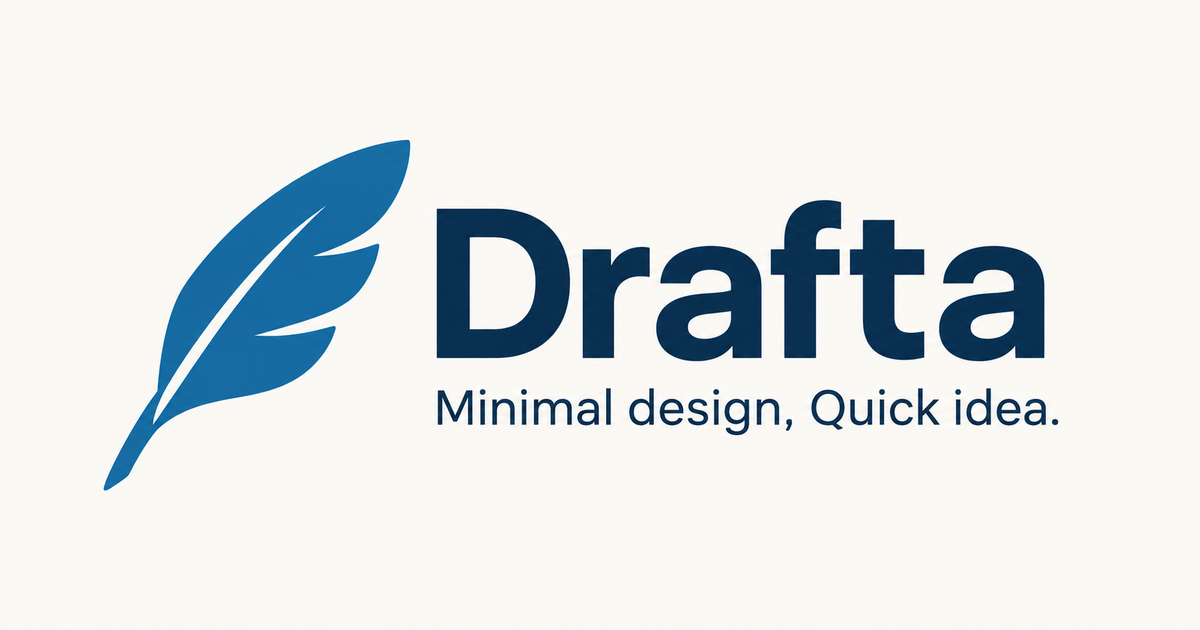
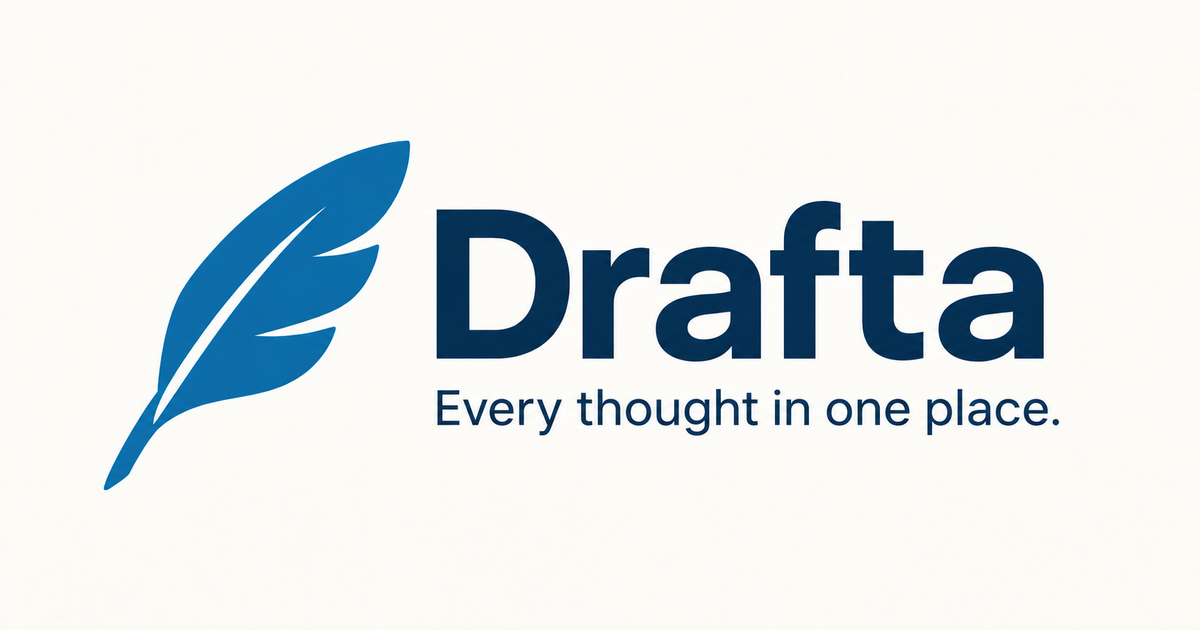
Fix: 共有コピーをEvery thought in one placeへ統一
- 背景: 採用コピーを共有画像と説明文へ反映するため。
- 変更: OGP画像・description・代替文言を更新。
- 影響: 旧コピーを公開対象から除去しメタ情報を検証。

diff --git a/Drafta_Web/src/lib/site-metadata.ts b/Drafta_Web/src/lib/site-metadata.ts
@@ -2,12 +2,12 @@ import type { Metadata } from 'next';
 
 export function siteMetadata(path: '/' | '/app/'): Metadata {
   const title = 'Drafta';
-  const description = 'Drafta — Minimal design, Quick idea.';
+  const description = 'Every thought in one place.';
   const image = {
     url: '/brand/og.png',
     width: 1200,
     height: 630,
-    alt: 'Drafta — Minimal design, Quick idea.',
+    alt: 'Drafta — Every thought in one place.',
   };
 
   return {

diff --git a/Drafta_Web/src/lib/site-metadata.test.ts b/Drafta_Web/src/lib/site-metadata.test.ts
@@ -5,6 +5,7 @@ describe('siteMetadata', () => {
   it.each(['/', '/app/'] as const)('keeps the canonical and share URL scoped to %s', (path) => {
     const metadata = siteMetadata(path);
     expect(metadata.metadataBase?.href).toBe('https://drafta-memo.com/');
+    expect(metadata.description).toBe('Every thought in one place.');
     expect(metadata.alternates?.canonical).toBe(path);
     expect(metadata.openGraph).toMatchObject({
       url: path,
